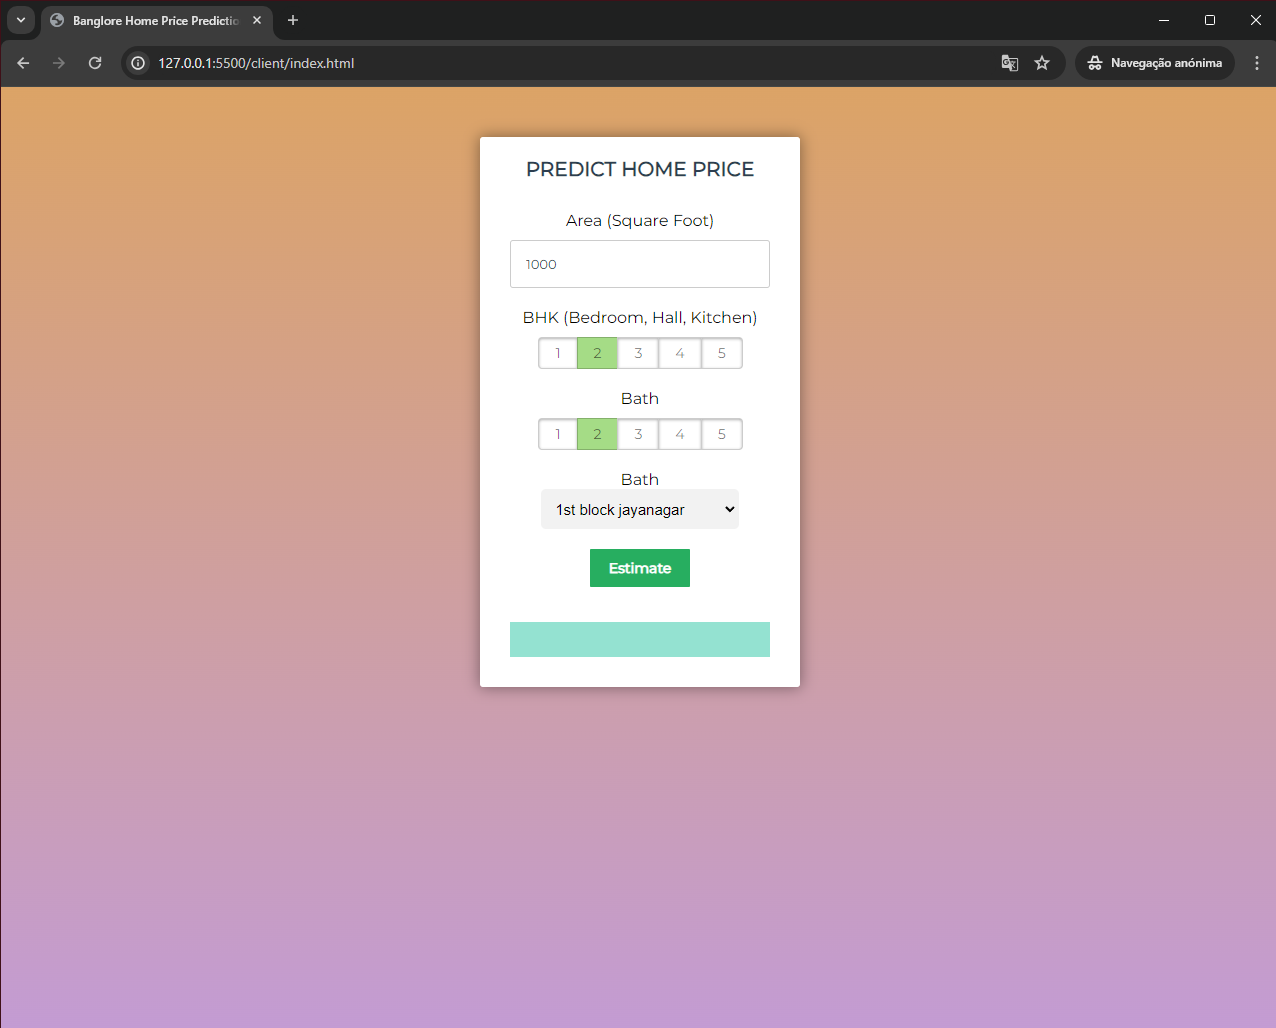
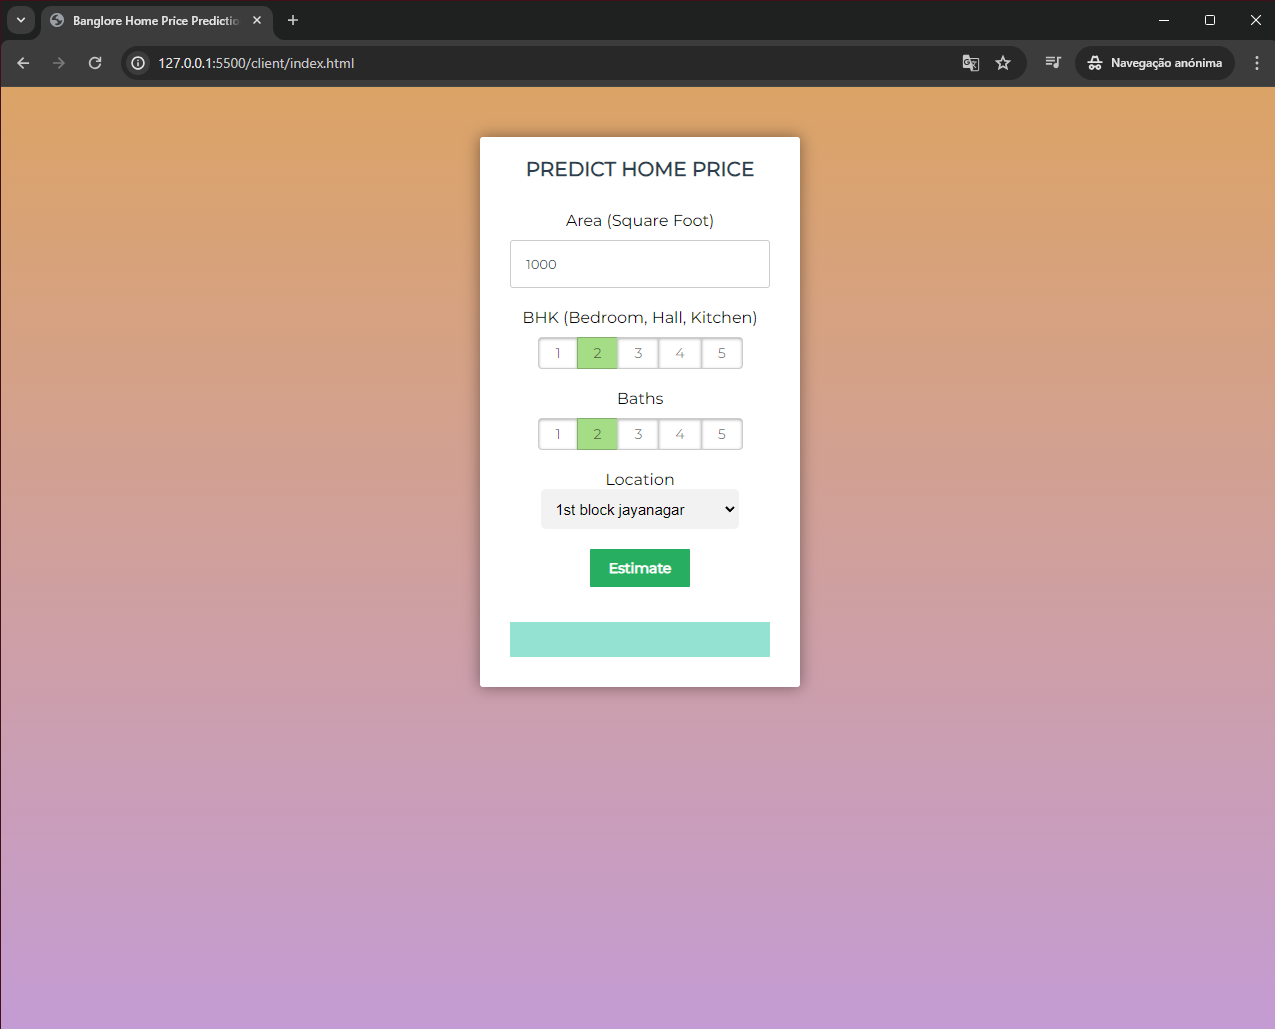
fix: wrong input name

diff --git a/client/index.html b/client/index.html
@@ -32,7 +32,7 @@
                 <label for="radio-bhk-5">5</label>
             </div>
             
-            <label id="input-title">Bath</label>
+            <label id="input-title">Baths</label>
             <div class="switch-field">
                 <input type="radio" id="radio-bath-1" name="uiBathrooms" value="1" />
                 <label for="radio-bath-1">1</label>
@@ -46,7 +46,7 @@
                 <label for="radio-bath-5">5</label>
             </div>
             
-            <label id="input-title">Bath</label>
+            <label id="input-title">Location</label>
             <div>
                 <select class="location" name="" id="uiLocations">
                     <option value="" disabled="disabled" selected="selected">Choose a Location</option>
